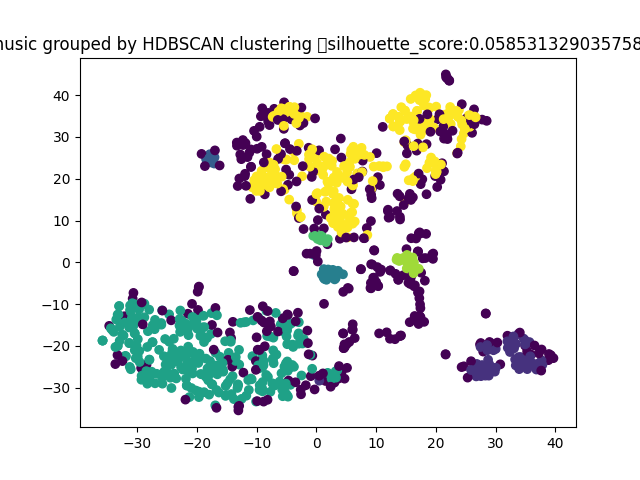
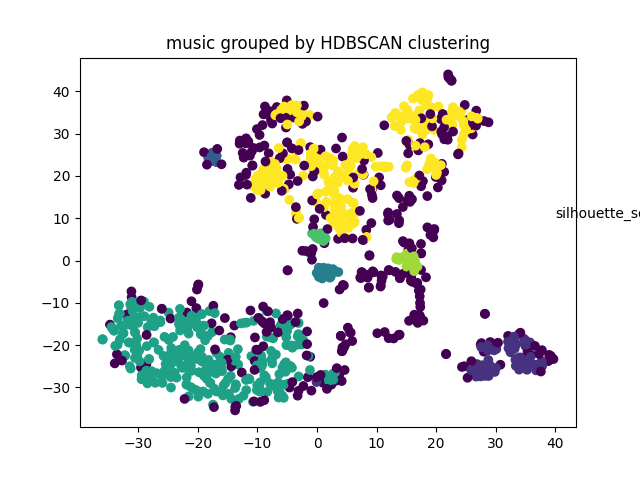
changes

diff --git a/src/main.py b/src/main.py
@@ -65,24 +65,28 @@ ss_dbscan = silhouette_score(emb_list, y_dbscan)
 
 
 plt.scatter(x[:,0],x[:,1],c=y_encoded, cmap='viridis')
-plt.title("music grouped by Genre \tsilhouette_score:{ss_genre}")
+plt.title("music grouped by Genre")
+plt.text(40,10, f"silhouette_score:{ss_genre:.2f}")
 plt.savefig(f"{figs}/scater_true.png")
 plt.clf()
 
 plt.scatter(x[:,0],x[:,1], c=y_kmeans, cmap='viridis')
-plt.title("music grouped by K-Means clustering \tsilhouette_score:{ss_kmeans}")
+plt.title("music grouped by K-Means clustering")
+plt.text(40,10, f"silhouette_score:{ss_kmeans:.2f}")
 plt.savefig(f"{figs}/scater_kmeans.png")
 plt.clf()
 
 
 plt.scatter(x[:,0],x[:,1], c=y_hdbscan, cmap='viridis')
-plt.title(f"music grouped by HDBSCAN clustering \tsilhouette_score:{ss_hdbscan} ")
+plt.title(f"music grouped by HDBSCAN clustering")
+plt.text(40,10, f"silhouette_score:{ss_hdbscan:.2f}")
 plt.savefig(f"{figs}/scater_HDBSCAN.png")
 plt.clf()
 
 
 plt.scatter(x[:,0],x[:,1], c=y_dbscan, cmap='viridis')
-plt.title("music grouped by DBSCAN clustering \tsilhouette_score:{ss_dbscan}")
+plt.title("music grouped by DBSCAN clustering")
+plt.text(40,10, f"silhouette_score:{ss_dbscan:.2f}")
 plt.savefig(f"{figs}/scater_DBSCAN.png")
 plt.clf()
 
